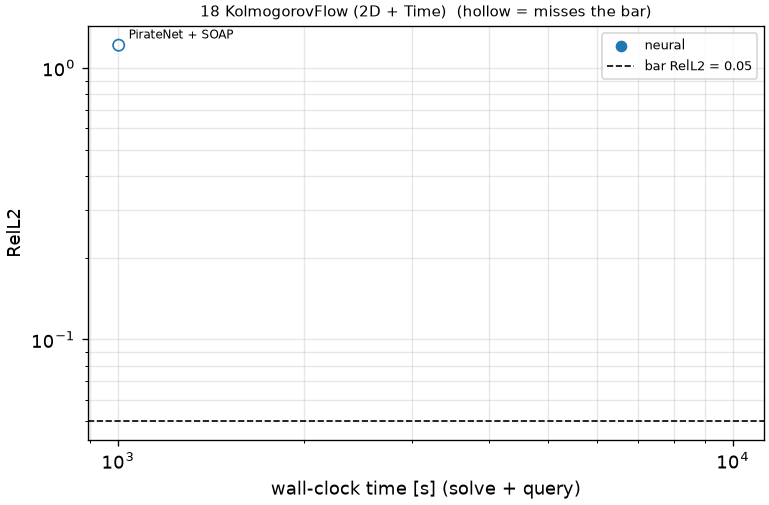
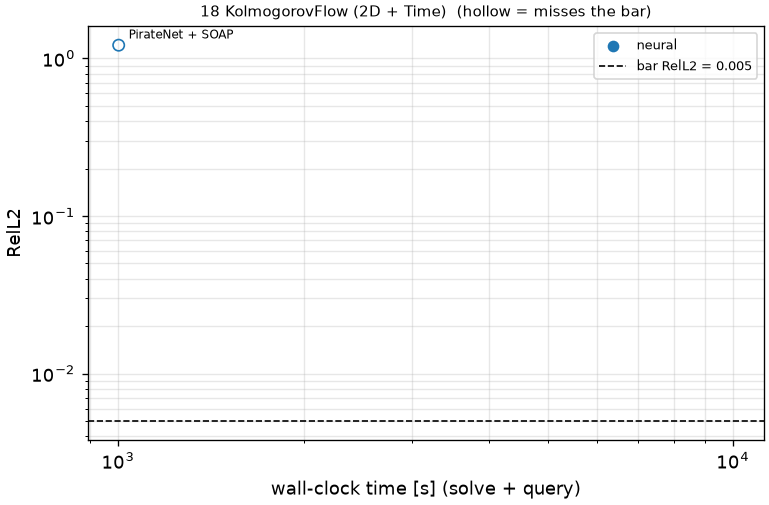
Rescore table under the uniform bar (merge master)

diff --git a/README.md b/README.md
@@ -164,21 +164,21 @@ its tracker: RelL2 vs wall-clock time, one point per submission, bar dashed.
 | 01 VanDerPol (ODE) | [PirateNet + SOAP](tracks/track01_0DT_VanDerPol/submissions/submission_PR0001/solve.py) | 300.4 | 1.14e+00 (≤ 0.005) | 1.75e+00 (≤ 0.01) | no |
 | 02 DampedWave (1D + Time) | [PirateNet + SOAP](tracks/track02_1DT_DampedWave/submissions/submission_PR0001/solve.py) | 1001 | 1.43e-02 (≤ 0.005) | 8.14e-03 (≤ 0.01) | no |
 | 03 Burgers (1D + Time) | [PirateNet + SOAP](tracks/track03_1DT_Burgers/submissions/submission_PR0001/solve.py) | 655.6 | 1.46e-05 (≤ 0.005) | 7.56e-05 (≤ 0.01) | yes |
-| 04 KuramotoSivashinsky (1D + Time) | [PirateNet + SOAP](tracks/track04_1DT_KuramotoSivashinsky/submissions/submission_PR0001/solve.py) | 1000 | 9.31e-01 (≤ 0.05) | 1.13e+00 (≤ 0.15) | no |
+| 04 KuramotoSivashinsky (1D + Time) | [PirateNet + SOAP](tracks/track04_1DT_KuramotoSivashinsky/submissions/submission_PR0001/solve.py) | 1000 | 9.31e-01 (≤ 0.005) | 1.13e+00 (≤ 0.01) | no |
 | 05 AllenCahn (1D + Time) | [PirateNet + SOAP](tracks/track05_1DT_AllenCahn/submissions/submission_PR0001/solve.py) | 383 | 1.95e-03 (≤ 0.005) | 2.98e-02 (≤ 0.01) | no |
 | 06 KdV (1D + Time) | [PirateNet + SOAP](tracks/track06_1DT_KdV/submissions/submission_PR0001/solve.py) | 1001 | 5.52e-04 (≤ 0.005) | 1.15e-03 (≤ 0.01) | yes |
 | 07 HighContrastDiffusion (2D) | [PirateNet + SOAP](tracks/track07_2D_HighContrastDiffusion/submissions/submission_PR0001/solve.py) | 1001 | 1.36e-01 (≤ 0.005) | 2.03e-01 (≤ 0.01) | no |
 | 08 Helmholtz (2D) | *on hold* | | | | |
 | 09 AdvectionDiffusion (2D) | [PirateNet + SOAP](tracks/track09_2D_AdvectionDiffusion/submissions/submission_PR0001/solve.py) | 300.7 | 9.44e-01 (≤ 0.005) | 7.24e-01 (≤ 0.01) | no |
 | 10 Kovasznay (2D) | [PirateNet + SOAP](tracks/track10_2D_Kovasznay/submissions/submission_PR0001/solve.py) | 616.9 | 1.47e-04 (≤ 0.005) | 1.65e-04 (≤ 0.01) | yes |
-| 11 LidDrivenCavity (2D) | [PirateNet + SOAP](tracks/track11_2D_LidDrivenCavity/submissions/submission_PR0001/solve.py) | 1001 | 1.00e+00 (≤ 0.05) | 1.00e+00 (≤ 0.1) | no |
+| 11 LidDrivenCavity (2D) | [PirateNet + SOAP](tracks/track11_2D_LidDrivenCavity/submissions/submission_PR0001/solve.py) | 1001 | 1.00e+00 (≤ 0.005) | 1.00e+00 (≤ 0.01) | no |
 | 12 Burgers (2D + Time) | [PirateNet + SOAP](tracks/track12_2DT_Burgers/submissions/submission_PR0001/solve.py) | 1001 | 7.35e-04 (≤ 0.005) | 7.92e-03 (≤ 0.01) | yes |
 | 13 DecayingEddies (2D + Time) | [PirateNet + SOAP](tracks/track13_2DT_DecayingEddies/submissions/submission_PR0001/solve.py) | 1000 | 2.58e-03 (≤ 0.005) | 2.55e-03 (≤ 0.01) | yes |
 | 14 CylinderFlow (2D + Time) | *TODO* | | | | |
 | 15 GreyScott (2D + Time) | [PirateNet + SOAP](tracks/track15_2DT_GreyScott/submissions/submission_PR0001/solve.py) | 1002 | 6.04e-01 (≤ 0.005) | 7.35e-01 (≤ 0.01) | no |
-| 16 GinzburgLandau (2D + Time) | [PirateNet + SOAP](tracks/track16_2DT_GinzburgLandau/submissions/submission_PR0001/solve.py) | 301.7 | 9.99e-01 (≤ 0.01) | 1.02e+00 (≤ 0.05) | no |
-| 17 RayleighTaylor (2D + Time) | [PirateNet + SOAP](tracks/track17_2DT_RayleighTaylor/submissions/submission_PR0001/solve.py) | 396.8 | 8.63e-01 (≤ 0.02) | 9.98e-01 (≤ 0.1) | no |
-| 18 KolmogorovFlow (2D + Time) | [PirateNet + SOAP](tracks/track18_2DT_KolmogorovFlow/submissions/submission_PR0001/solve.py) | 1001 | 1.21e+00 (≤ 0.05) | 1.41e+00 (≤ 0.15) | no |
+| 16 GinzburgLandau (2D + Time) | [PirateNet + SOAP](tracks/track16_2DT_GinzburgLandau/submissions/submission_PR0001/solve.py) | 301.7 | 9.99e-01 (≤ 0.005) | 1.02e+00 (≤ 0.01) | no |
+| 17 RayleighTaylor (2D + Time) | [PirateNet + SOAP](tracks/track17_2DT_RayleighTaylor/submissions/submission_PR0001/solve.py) | 396.8 | 8.63e-01 (≤ 0.005) | 9.98e-01 (≤ 0.01) | no |
+| 18 KolmogorovFlow (2D + Time) | [PirateNet + SOAP](tracks/track18_2DT_KolmogorovFlow/submissions/submission_PR0001/solve.py) | 1001 | 1.21e+00 (≤ 0.005) | 1.41e+00 (≤ 0.01) | no |
 | 19 BeltramiFlow (3D + Time) | [PirateNet + SOAP](tracks/track19_3DT_BeltramiFlow/submissions/submission_PR0001/solve.py) | 566.7 | 9.69e-04 (≤ 0.005) | 1.65e-03 (≤ 0.01) | yes |
 <!-- tracks-table:end -->
 
